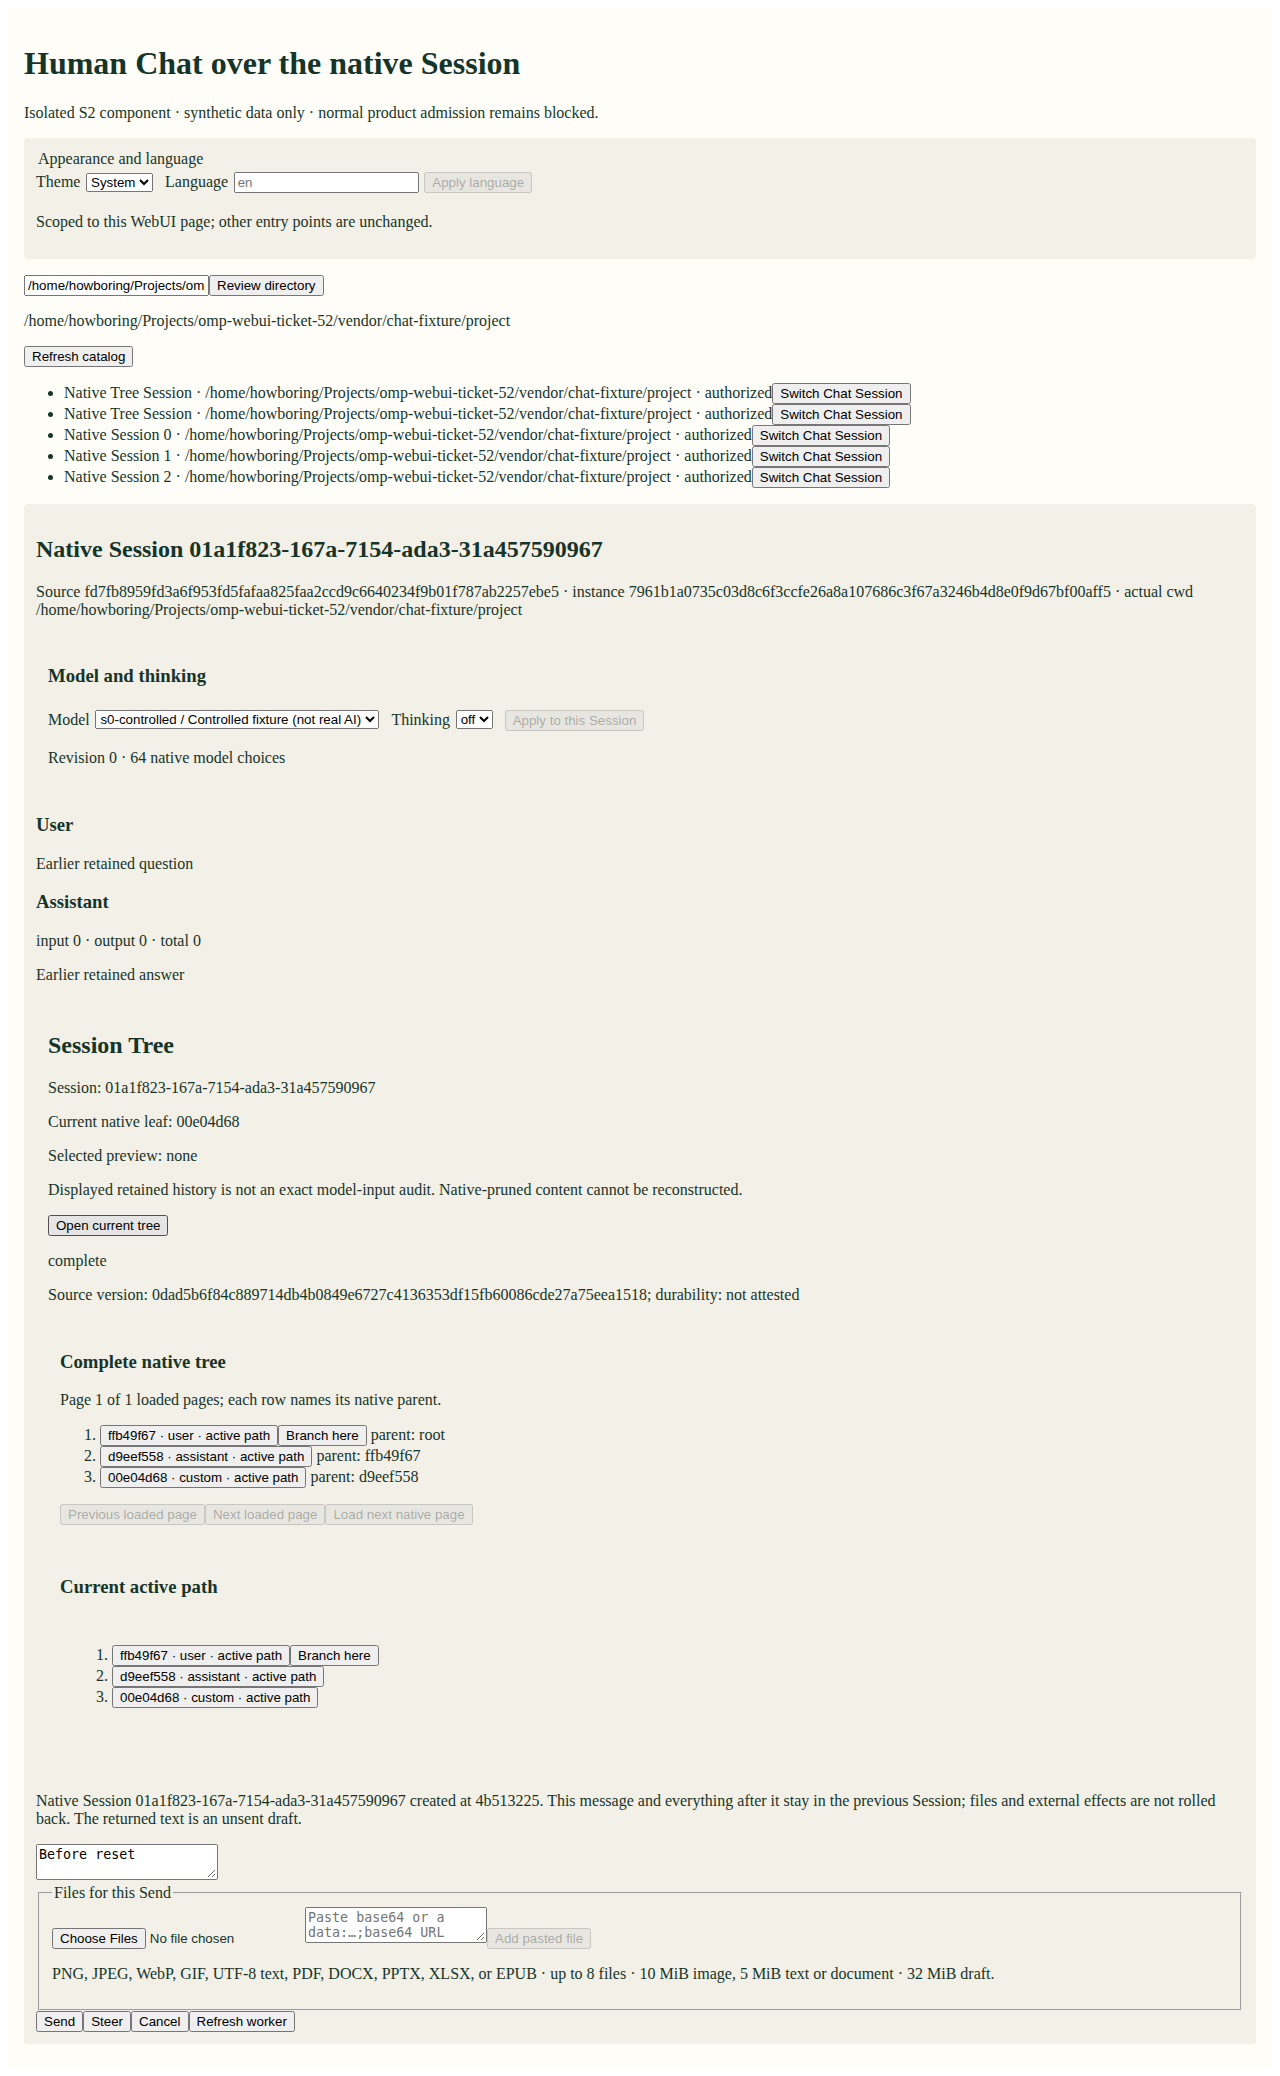
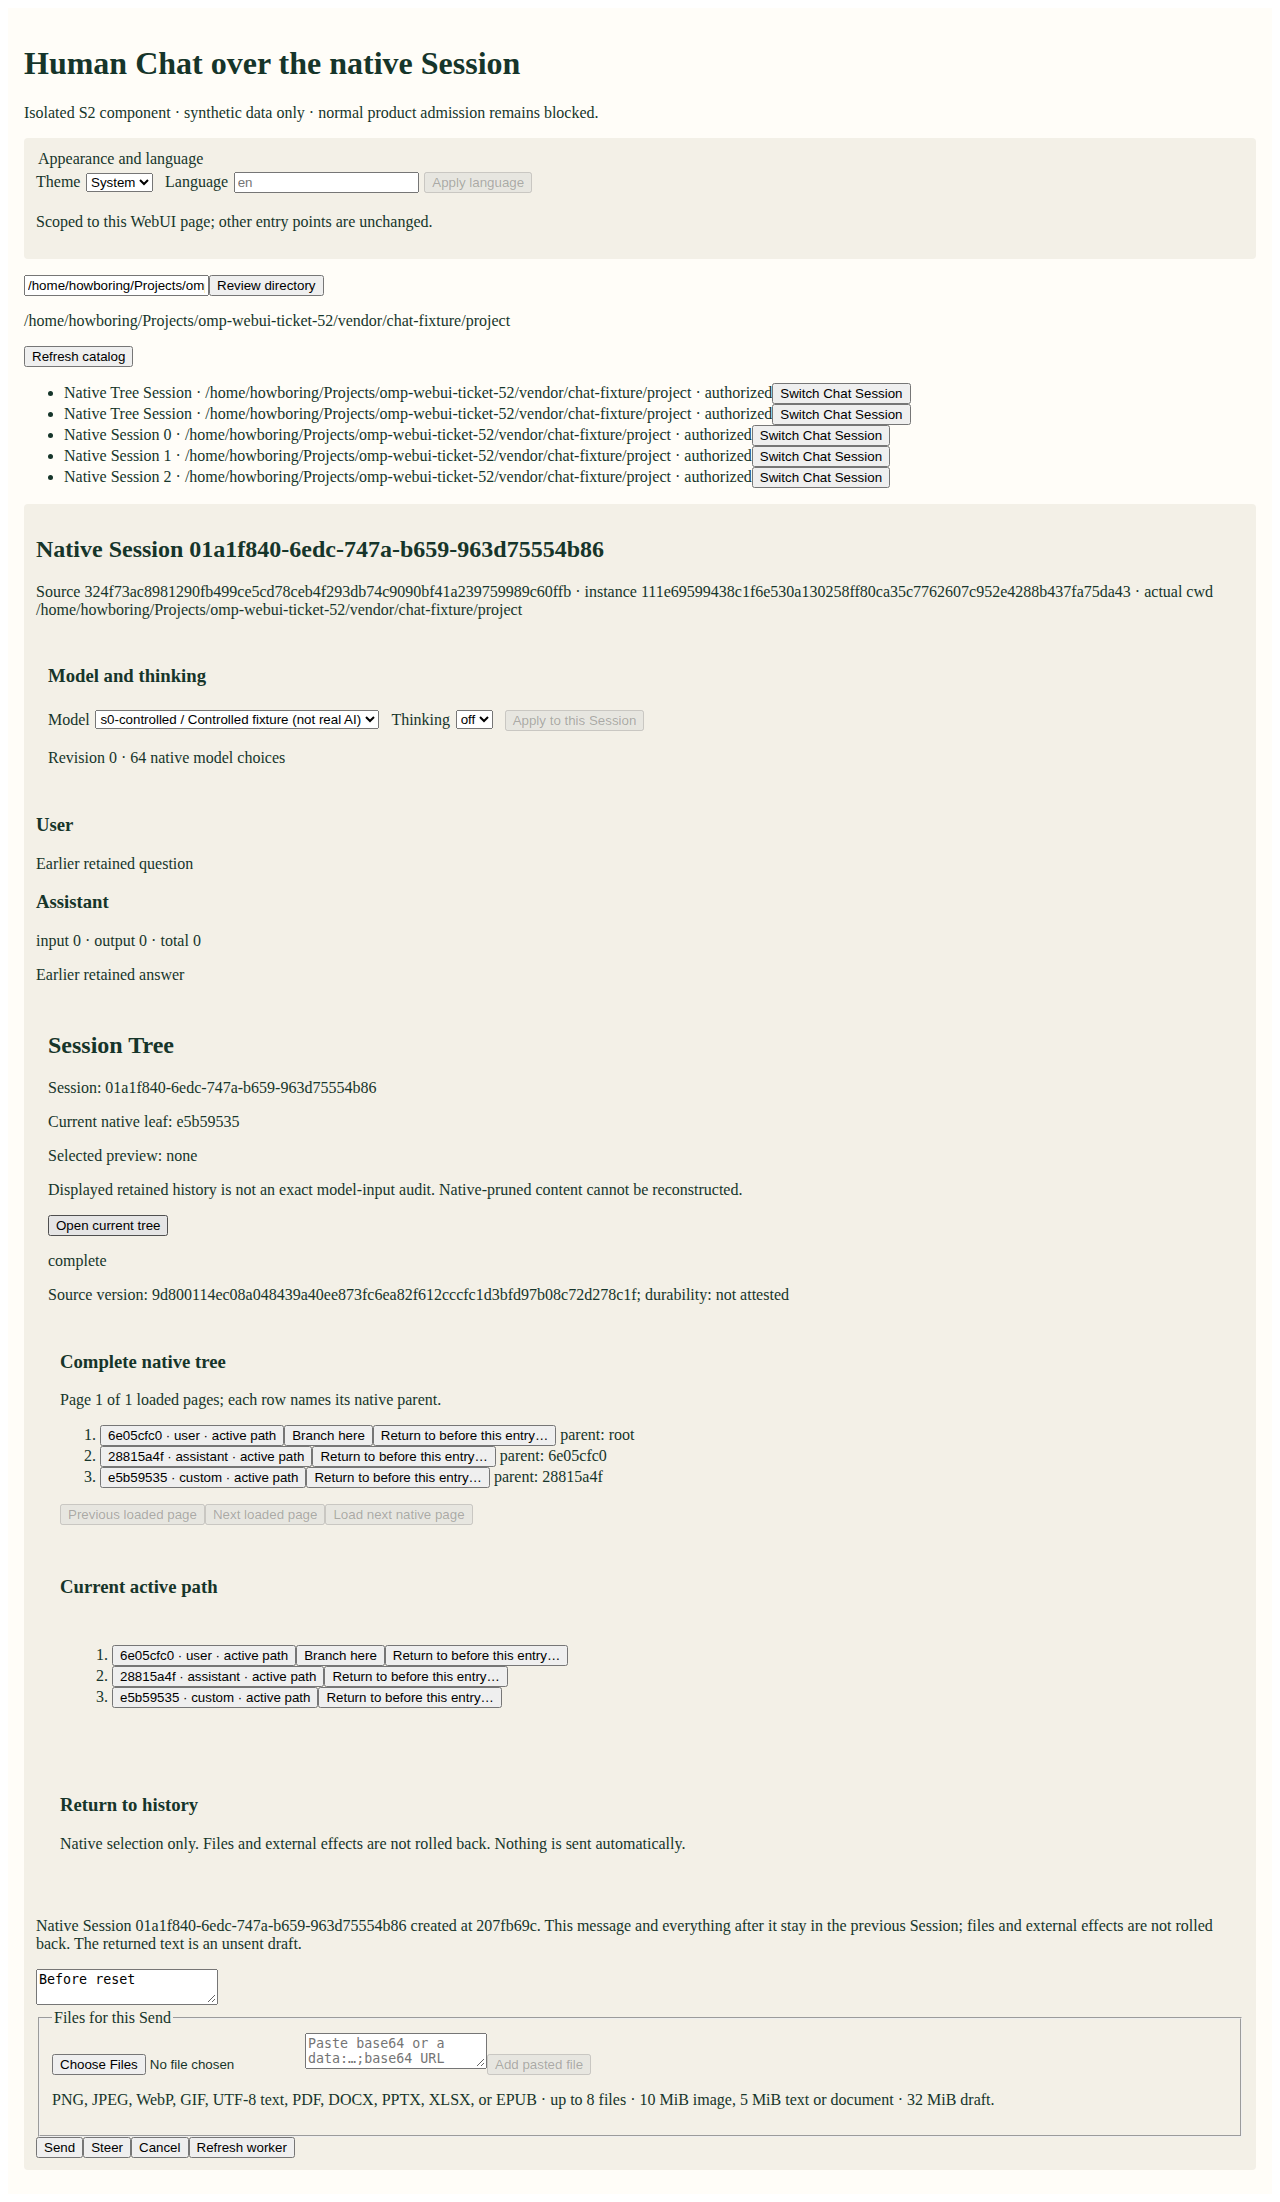
Refresh ticket 52 evidence after the integration merge (#52)

diff --git a/tests/browser/branch-browser.py b/tests/browser/branch-browser.py
@@ -52,7 +52,8 @@ async def main():
             def observe(request):
                 if request.method == "POST" and "/api/" in request.url:
                     writes.append(request.url.split("/api/", 1)[1])
-            page.on("pageerror", lambda error: errors.append(str(error)))
+            page.on("pageerror", lambda error: (errors.append(str(error)), print("PAGEERROR", error, flush=True)))
+            page.on("console", lambda message: print("CONSOLE", message.type, message.text, flush=True) if message.type == "error" else None)
             page.on("request", observe)
             await page.goto(bootstrap)
             await page.get_by_label("Directory to authorize").fill(str(ROOT / "vendor/chat-fixture/project"))

diff --git a/docs/evidence/ticket-52-branched-session.md b/docs/evidence/ticket-52-branched-session.md
@@ -56,8 +56,8 @@ Decision record: `docs/adr/0033-branched-session-native-branch.md`.
 ## Evidence tuple
 
 - OMP base `57771ae562b9345e0579bceb2d68d585e3e6927e`
[7 lines of base64/hex data omitted]
@@ -85,3 +85,23 @@ The browser run writes `vendor/branch-browser.json` (`status: PASS`, `productAdm
   association work (ticket 56) but is not used here.
 - Branching while a turn is running: the request refuses and asks the operator to Stop and re-initiate.
 - Same-Session historical navigation (ticket 51) and historical-original access (ticket 56).
+
+## After the integration merge
+
+The evidence was rerun on the merged branch (mvp/spec-29 at af276c1, authored stack
+with `0008-durable-navigation` before `0012-strict-branch-transition`). All eleven
+cases pass again: native user points only, tool/special/compaction/reset rendering,
+preview before branch, cancel keeps the input, native identity verified, atomic
+presentation replacement, unsent returned draft, common history only, source and
+destination known, reload rebuilds the new Session, and no replay prompt or model
+call. `docs/evidence/ticket-52-browser.json` is that run.
+
[3 lines of base64/hex data omitted]
+
+Known failures outside this ticket after the merge: `tests/navigation/validators.test.ts`
+needs the ticket 51 staged worker tree (`vendor/omp-strict`), which this worktree never
+builds, and the continuation fault-shim suite still fails eleven native syscall cases
+under the system-fixture prefix. `tests/sessions`, `tests/tree` and
+`tests/attachments/public-rpc.test.ts` pass, and `bun run typecheck` is clean.
